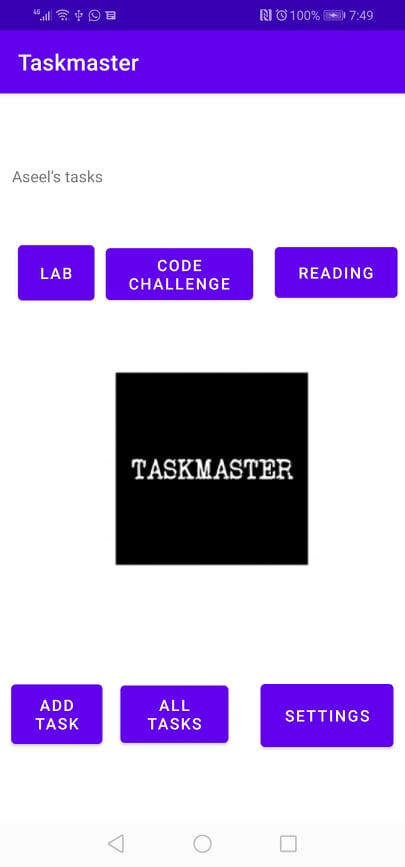
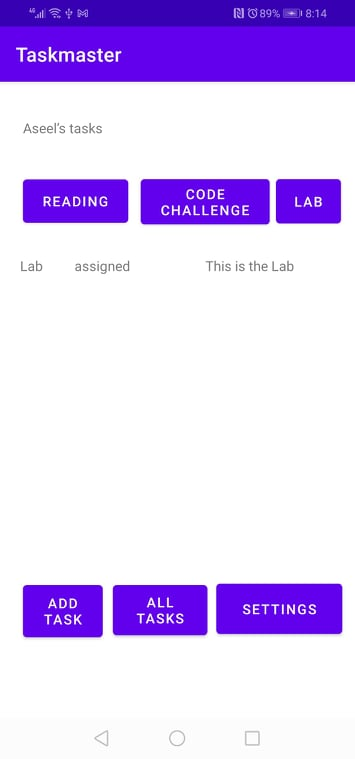
lab28-401

diff --git a/taskmaster/app/src/main/java/com/example/taskmaster/TaskFragment.java b/taskmaster/app/src/main/java/com/example/taskmaster/TaskFragment.java
@@ -1,0 +1,69 @@
+package com.example.taskmaster;
+
+import android.os.Bundle;
+
+import androidx.fragment.app.Fragment;
+
+import android.view.LayoutInflater;
+import android.view.View;
+import android.view.ViewGroup;
+
+/**
+ * A simple {@link Fragment} subclass.
+ * Use the {@link TaskFragment#newInstance} factory method to
+ * create an instance of this fragment.
+ */
+public class TaskFragment extends Fragment {
+
+    // TODO: Rename parameter arguments, choose names that match
+    // the fragment initialization parameters, e.g. ARG_ITEM_NUMBER
+    private static final String ARG_PARAM1 = "title";
+    private static final String ARG_PARAM2 = "body";
+    private static final String ARG_PARAM3 = "state";
+
+    // TODO: Rename and change types of parameters
+    private String mTitle;
+    private String mBody;
+    private String mState;
+
+    public TaskFragment() {
+        // Required empty public constructor
+    }
+
+    /**
+     * Use this factory method to create a new instance of
+     * this fragment using the provided parameters.
+     *
+     * @param mTitle Parameter 1.
+     * @param mBody Parameter 2.
+     * @param mState Parameter 3.
+     * @return A new instance of fragment TaskFragment.
+     */
+    // TODO: Rename and change types and number of parameters
+    public static TaskFragment newInstance(String mTitle, String mBody, String mState) {
+        TaskFragment fragment = new TaskFragment();
+        Bundle args = new Bundle();
+        args.putString(ARG_PARAM1, mTitle);
+        args.putString(ARG_PARAM2, mBody);
+        args.putString(ARG_PARAM3, mState);
+        fragment.setArguments(args);
+        return fragment;
+    }
+
+    @Override
+    public void onCreate(Bundle savedInstanceState) {
+        super.onCreate(savedInstanceState);
+        if (getArguments() != null) {
+            mTitle = getArguments().getString(ARG_PARAM1);
+            mBody = getArguments().getString(ARG_PARAM2);
+            mState = getArguments().getString(ARG_PARAM3);
+        }
+    }
+
+    @Override
+    public View onCreateView(LayoutInflater inflater, ViewGroup container,
+                             Bundle savedInstanceState) {
+        // Inflate the layout for this fragment
+        return inflater.inflate(R.layout.fragment_task, container, false);
+    }
+}

diff --git a/taskmaster/app/src/main/java/com/example/taskmaster/TaskAdapter.java b/taskmaster/app/src/main/java/com/example/taskmaster/TaskAdapter.java
@@ -1,0 +1,55 @@
+package com.example.taskmaster;
+
+import android.view.LayoutInflater;
+import android.view.View;
+import android.view.ViewGroup;
+import android.widget.TextView;
+
+import androidx.annotation.NonNull;
+import androidx.recyclerview.widget.RecyclerView;
+
+import java.util.ArrayList;
+
+public class TaskAdapter extends RecyclerView.Adapter<TaskAdapter.TaskViewHolder>{
+
+    ArrayList<Task> tasksList = new ArrayList<Task>();
+
+    public TaskAdapter(ArrayList<Task> tasksList) {
+        this.tasksList = tasksList;
+    }
+
+    public static class TaskViewHolder extends RecyclerView.ViewHolder{
+        public Task task;
+        View itemView;
+
+        public TaskViewHolder (@NonNull View itemView){
+            super(itemView);
+            this.itemView = itemView;
+        }
+    }
+
+    @NonNull
+    @Override
+    public TaskViewHolder onCreateViewHolder(@NonNull ViewGroup parent, int viewType) {
+        View view = LayoutInflater.from(parent.getContext()).inflate(R.layout.fragment_task,parent,false);
+        TaskViewHolder taskViewHolder = new TaskViewHolder(view);
+        return taskViewHolder;
+    }
+
+    @Override
+    public void onBindViewHolder(@NonNull TaskAdapter.TaskViewHolder holder, int position) {
+        holder.task = tasksList.get(position);
+        TextView title = holder.itemView.findViewById(R.id.titleInFrag);
+        TextView body = holder.itemView.findViewById(R.id.bodyInFrag);
+        TextView state = holder.itemView.findViewById(R.id.stateInFrag);
+
+        title.setText(holder.task.title);
+        body.setText(holder.task.body);
+        state.setText(holder.task.state);
+    }
+
+    @Override
+    public int getItemCount() {
+        return tasksList.size();
+    }
+}

diff --git a/taskmaster/app/src/main/java/com/example/taskmaster/MainActivity.java b/taskmaster/app/src/main/java/com/example/taskmaster/MainActivity.java
@@ -1,6 +1,8 @@
 package com.example.taskmaster;
 
 import androidx.appcompat.app.AppCompatActivity;
+import androidx.recyclerview.widget.LinearLayoutManager;
+import androidx.recyclerview.widget.RecyclerView;
 
 import android.content.Intent;
 import android.content.SharedPreferences;
@@ -12,12 +14,24 @@ import android.widget.EditText;
 import android.widget.TextView;
 import android.widget.Toast;
 
+import java.lang.reflect.Array;
+import java.util.ArrayList;
+
 public class MainActivity extends AppCompatActivity {
 
     @Override
     protected void onCreate(Bundle savedInstanceState) {
         super.onCreate(savedInstanceState);
         setContentView(R.layout.activity_main);
+
+        ArrayList<Task> tasksList = new ArrayList<Task>();
+        tasksList.add(new Task("Lab" , "This is the Lab" , "assigned"));
+        tasksList.add(new Task("Code Challenge" , "This is the Code Challenge" , "complete"));
+        tasksList.add(new Task("Reading" , "This is the Reading" , "new"));
+
+        RecyclerView tasksListRecyclerView = findViewById(R.id.taskRecyclerView);
+        tasksListRecyclerView.setLayoutManager(new LinearLayoutManager(this));
+        tasksListRecyclerView.setAdapter(new TaskAdapter(tasksList));
 
         Button allTaskButton = findViewById(R.id.allTask);
         Button addTaskButton = findViewById(R.id.addTask);
@@ -77,6 +91,7 @@ public class MainActivity extends AppCompatActivity {
     @Override
     protected void onResume() {
         super.onResume();
+
         String usernameTasks = "’s tasks";
         SharedPreferences sharedPreferences = PreferenceManager.getDefaultSharedPreferences(MainActivity.this);
         String username = sharedPreferences.getString("username", "Your");

diff --git a/taskmaster/app/src/main/java/com/example/taskmaster/Task.java b/taskmaster/app/src/main/java/com/example/taskmaster/Task.java
@@ -1,0 +1,14 @@
+package com.example.taskmaster;
+
+public class Task {
+
+    public String title;
+    public String body;
+    public String state;
+
+    public Task(String title, String body, String state) {
+        this.title = title;
+        this.body = body;
+        this.state = state;
+    }
+}

diff --git a/README.md b/README.md
@@ -4,11 +4,13 @@
 
 **Homepage**
 
-The main page have a heading at the top of the page, an image to mock the “my tasks” view, and buttons at the bottom of the page to allow going to the “add tasks” and “all tasks” page.
+The main page have a heading at the top of the page,buttons at the bottom of the page to allow going to the “add tasks” and “all tasks” page.
 
 contain three different buttons with hardcoded task titles. When a user taps one of the titles, it goes to the Task Detail page, and the title at the top of the page match the task title that was tapped on the previous page.
 
 The homepage also contain a button to visit the Settings page, and once the user has entered their username, it displays “{username}’s tasks” above the three task buttons.
+
+Refactor homepage to use a RecyclerView for displaying Task data. This have hardcoded Task data for now.
 
 ![Home-Page](./screenshots/home-page.jpg)
 
